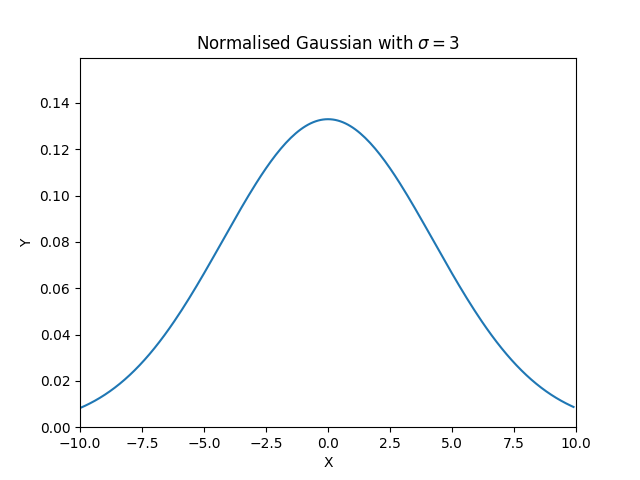
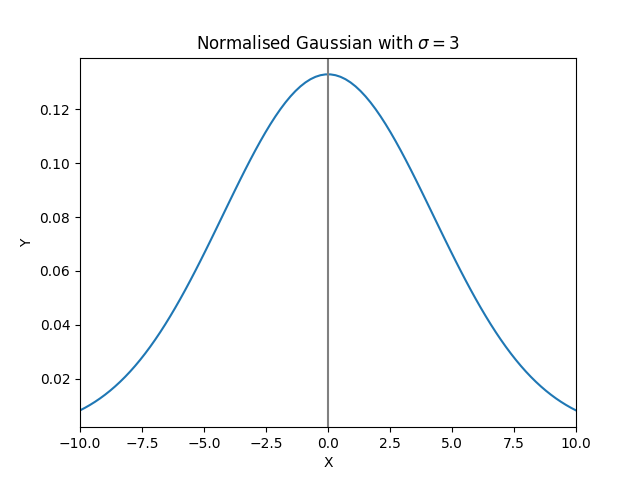
Used linspace instead of arange, added comments

diff --git a/ps-1/plot_gaussian.py b/ps-1/plot_gaussian.py
@@ -1,17 +1,26 @@
 import numpy as pn
 import matplotlib.pyplot as plt
 
-def gaussian(X, stdev):
-    return (1/(stdev * pn.sqrt(2 * pn.pi))) * pn.exp(-(X/(2 * stdev)) ** 2)
+'''
+Set our standard deviation (and the Gaussian normalisation accordingly).
+Set up equally spaced X-values and the Gaussian function by which we get the corresponding Y-values.
+Plot the Gaussian, set appropriate x-limits, show x=0 axis, and format plot and axes titles.
+Finally, save the figure and then show it.
+'''
+sigma = 3
+norm = (1/(sigma * pn.sqrt(2 * pn.pi)))
 
-x = pn.arange(-10, 10, 0.1, dtype=pn.float64)
-y = gaussian(x, 3)
+def gaussian(x, N, stdev):
+    return N * pn.exp(-(x/(2 * stdev)) ** 2)
 
-plt.plot(x, y)
+X = pn.linspace(-10, 10, 100, dtype=pn.float64)
+Y = gaussian(X, norm, sigma)
+
+plt.plot(X, Y)
 plt.xlim(-10, 10)
-plt.ylim(0, pn.max(y) * 1.2)
 plt.xlabel("X")
 plt.ylabel("Y")
 plt.title("Normalised Gaussian with $\sigma = 3$")
+plt.axvline(x=0, color='grey')
 plt.savefig("gaussian.png")
 plt.show()
